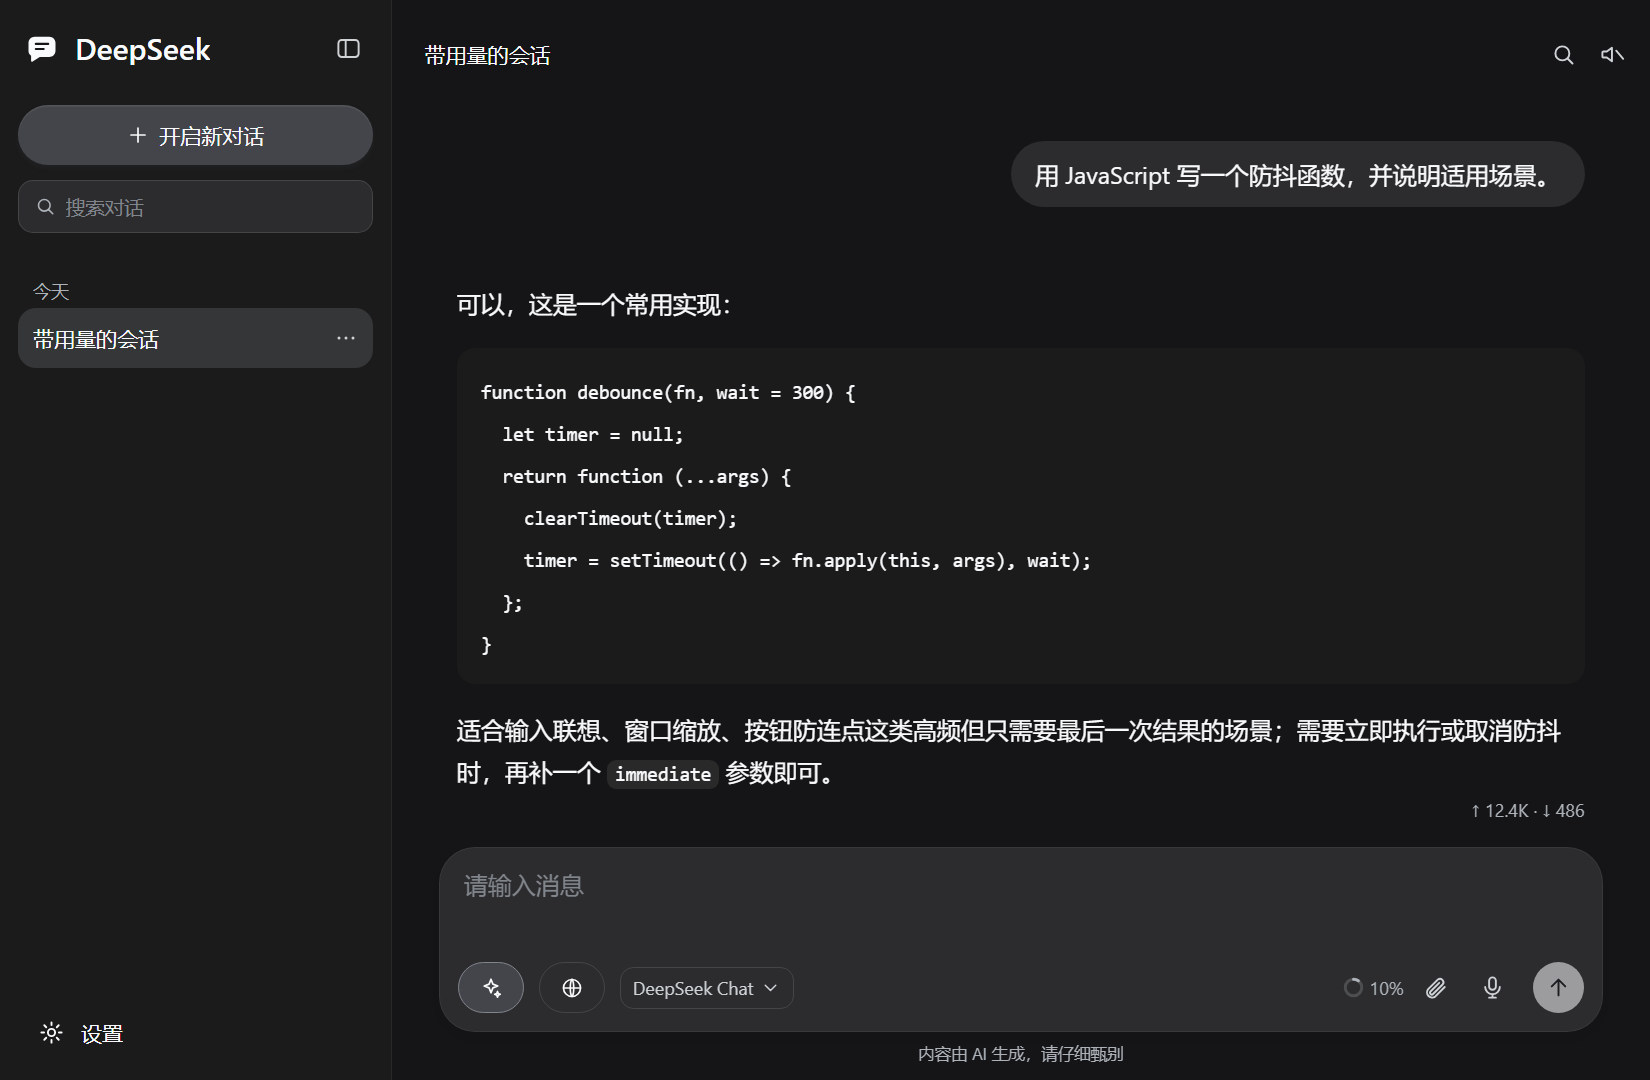
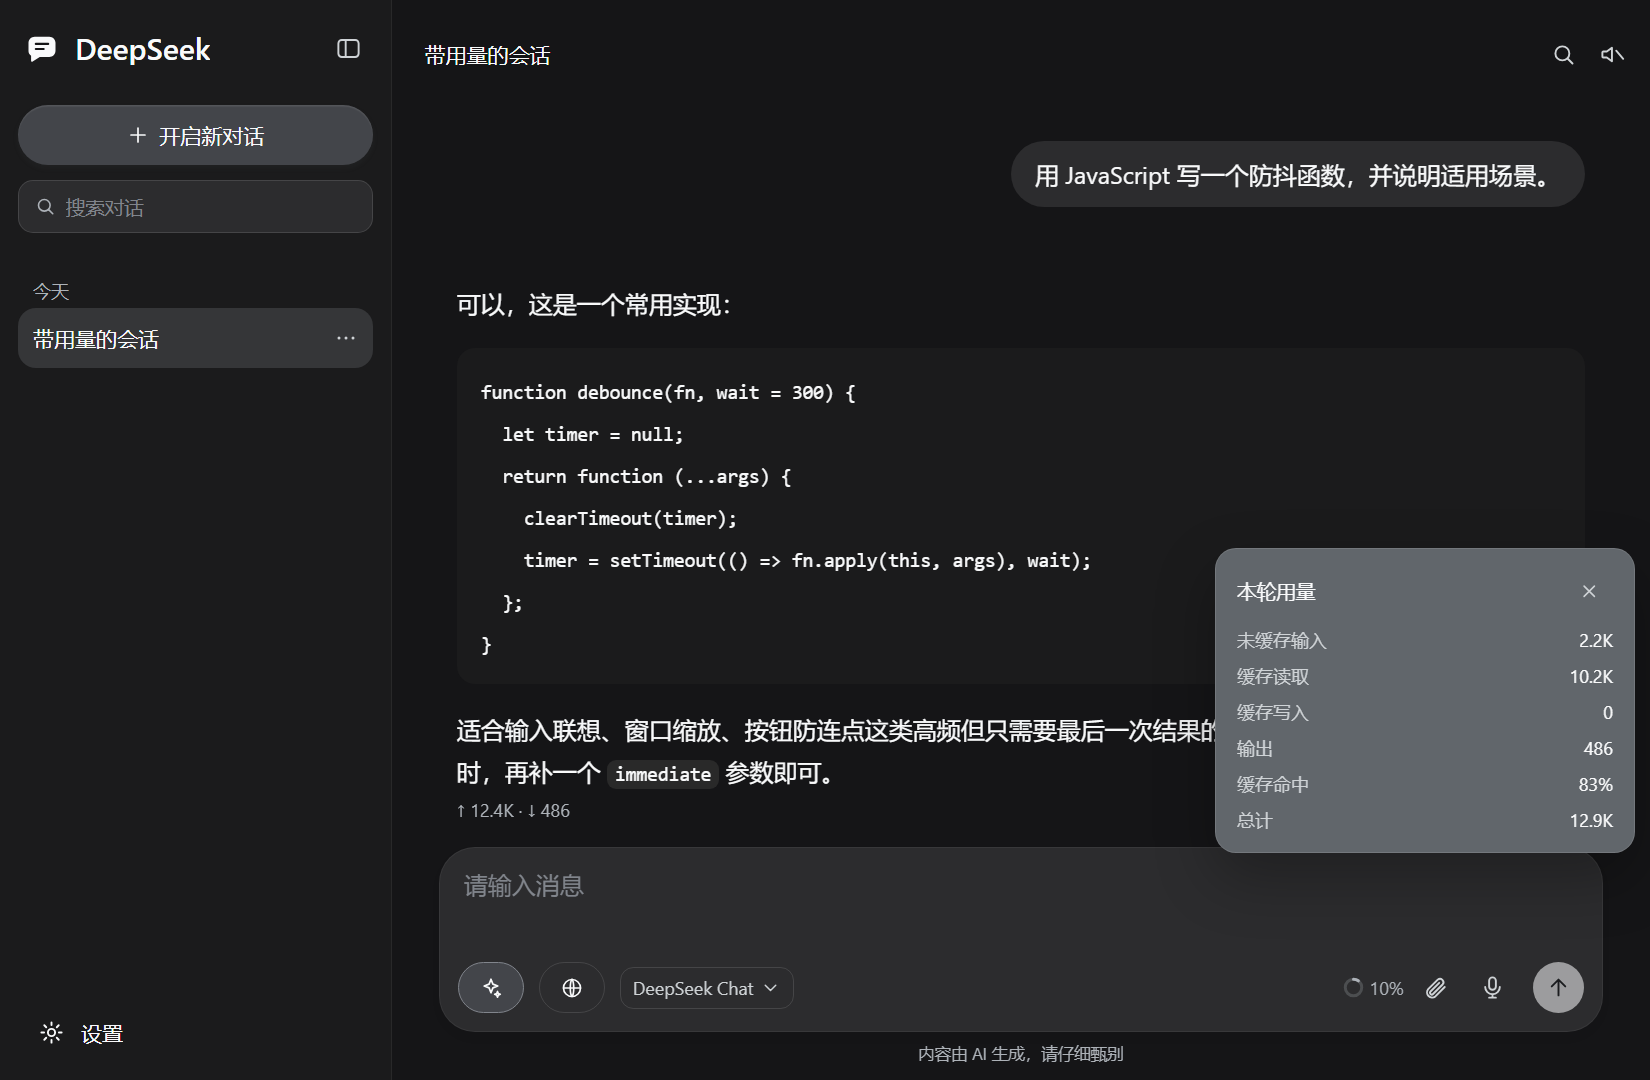
feat: open usage detail panels from the turn footer and the ring (v1.16.0)
- clicking the "↑ billed input · ↓ output" line opens a "Turn usage" panel with
  the exact breakdown: uncached input, cached input, cache write, output (with
  reasoning), cache hit share and the total
- clicking the context ring opens a "Context usage" panel: percentage, bar,
  "~used / window", remaining tokens and the estimation note
- both panels close on Esc or the mask, collapse when the conversation changes,
  and only appear when their data exists; the ring and the usage line are now
  real buttons with aria-haspopup
- tests: 168 assertions; the harness gained emitWindow so the Escape path is
  covered

Changed region(s): [[0.7109, 0.4889, 1.0, 0.7944], [0.2782, 0.7333, 0.34, 0.7639]]

diff --git a/client.js b/client.js
@@ -13,7 +13,7 @@ window.__ModuleLoader__.load({
     const NS = 'deepseek-chat-ui';
     const API = '/chat-replica';
     /** 设置面板底部展示的版本；必须与 package.json 的 version 一致（元数据测试校验）。 */
-    const PLUGIN_VERSION = '1.15.0';
+    const PLUGIN_VERSION = '1.16.0';
     const REPO_URL = 'https://github.com/AlphaAntivoid/dsh-chat-replica';
     const STORE_THREADS = 'deepseek-chat-ui.threads.v1';
     const STORE_ACTIVE = 'deepseek-chat-ui.active.v1';
@@ -73,12 +73,23 @@ window.__ModuleLoader__.load({
     /** 一轮的上行/下行计数；缺 usage 时返回 null。 */
     function usageTotals(usage) {
       if (!usage || typeof usage !== 'object') return null;
-      const input = billedInputTokens(usage);
+      const uncached = Number(usage.inputTokens) || 0;
+      const cacheRead = Number(usage.cacheReadTokens) || 0;
+      const cacheWrite = Number(usage.cacheWriteTokens) || 0;
+      const input = uncached + cacheRead + cacheWrite;
       const output = Number(usage.outputTokens) || 0;
       if (input === 0 && output === 0) return null;
       const reasoning = Number(usage.reasoningTokens) || 0;
-      const cacheHit = input === 0 ? null : Math.round(((Number(usage.cacheReadTokens) || 0) / input) * 100);
-      return { input: input, output: output, reasoning: reasoning, cacheHit: cacheHit };
+      const cacheHit = input === 0 ? null : Math.round((cacheRead / input) * 100);
+      return {
+        input: input,
+        output: output,
+        reasoning: reasoning,
+        cacheHit: cacheHit,
+        uncached: uncached,
+        cacheRead: cacheRead,
+        cacheWrite: cacheWrite,
+      };
     }
 
     /** 聊天用的模型选择；null 表示跟随 DSH 的默认模型。 */
@@ -272,6 +283,15 @@ window.__ModuleLoader__.load({
       'usage.output': '输出',
       'usage.reasoning': '推理',
       'usage.cacheHit': '缓存命中',
+      'usage.panelTurn': '本轮用量',
+      'usage.panelContext': '上下文用量',
+      'usage.uncached': '未缓存输入',
+      'usage.cacheRead': '缓存读取',
+      'usage.cacheWrite': '缓存写入',
+      'usage.total': '总计',
+      'usage.remaining': '剩余约 {tokens} tokens',
+      'usage.approx': '按上一轮计费输入 + 本轮输出估算，不是 provider 的精确压力值',
+      'usage.close': '关闭',
       'rename.title': '重命名对话',
       'rename.field': '对话标题',
       'rename.save': '保存',
@@ -444,6 +464,15 @@ window.__ModuleLoader__.load({
       'usage.output': 'Output',
       'usage.reasoning': 'Reasoning',
       'usage.cacheHit': 'Cache hit',
+      'usage.panelTurn': 'Turn usage',
+      'usage.panelContext': 'Context usage',
+      'usage.uncached': 'Uncached input',
+      'usage.cacheRead': 'Cached input',
+      'usage.cacheWrite': 'Cache write',
+      'usage.total': 'Total',
+      'usage.remaining': '~{tokens} tokens left',
+      'usage.approx': 'Estimated from the last billed input plus this turn’s output, not a provider-exact pressure reading',
+      'usage.close': 'Close',
       'rename.title': 'Rename conversation',
       'rename.field': 'Conversation title',
       'rename.save': 'Save',
@@ -3127,10 +3156,11 @@ window.__ModuleLoader__.load({
             { className: 'cd-right' },
             props.contextOccupancy
               ? h(
-                  'span',
+                  'button',
                   {
+                    type: 'button',
                     className: 'cd-meter',
-                    role: 'img',
+                    'aria-haspopup': 'dialog',
                     'aria-label': t('usage.context')
                       .replace('{percent}', String(props.contextOccupancy.percent))
                       .replace('{used}', formatTokenCount(props.contextOccupancy.used))
@@ -3139,6 +3169,9 @@ window.__ModuleLoader__.load({
                       .replace('{percent}', String(props.contextOccupancy.percent))
                       .replace('{used}', formatTokenCount(props.contextOccupancy.used))
                       .replace('{window}', formatTokenCount(props.contextOccupancy.window)),
+                    onClick: function () {
+                      props.onOpenUsage('context');
+                    },
                   },
                   h(
                     'svg',
@@ -3315,6 +3348,8 @@ window.__ModuleLoader__.load({
       const [contextWindow, setContextWindow] = useState(function () {
         return loadContextWindow();
       });
+      /** 用量明细面板：'turn' | 'context' | null。 */
+      const [usagePanel, setUsagePanel] = useState(null);
 
       const bodyRef = useRef(null);
       const findInputRef = useRef(null);
@@ -3450,7 +3485,7 @@ window.__ModuleLoader__.load({
             const message = activeThread.messages[index];
             if (message.role === 'assistant' && message.usage) {
               const totals = usageTotals(message.usage);
-              if (totals !== null) return totals;
+              if (totals !== null) return { usage: message.usage, totals: totals };
             }
           }
           return null;
@@ -3461,7 +3496,7 @@ window.__ModuleLoader__.load({
       const occupancy = useMemo(
         function () {
           if (contextWindow === null || activeUsage === null) return null;
-          const used = activeUsage.input + activeUsage.output;
+          const used = activeUsage.totals.input + activeUsage.totals.output;
           return {
             used: used,
             window: contextWindow,
@@ -3513,6 +3548,28 @@ window.__ModuleLoader__.load({
           };
         },
         [modelMenu],
+      );
+
+      useEffect(
+        function () {
+          if (usagePanel === null) return;
+          const onKey = function (event) {
+            if (event.key === 'Escape') setUsagePanel(null);
+          };
+          window.addEventListener('keydown', onKey);
+          return function () {
+            window.removeEventListener('keydown', onKey);
+          };
+        },
+        [usagePanel],
+      );
+
+      // 切换会话时收起用量面板，避免展示上一条会话的数字。
+      useEffect(
+        function () {
+          setUsagePanel(null);
+        },
+        [activeId],
       );
 
       // 切换会话时收起查找条，避免旧查询挂在新对话上。
@@ -4954,6 +5011,94 @@ window.__ModuleLoader__.load({
         );
       };
 
+      /**
+       * 用量明细：本轮 token 拆分与上下文占用。只展示确切数字与一条近似说明，
+       * 不虚构 system / tools 分段。
+       */
+      const renderUsagePanel = function () {
+        if (usagePanel === null) return null;
+        const title = usagePanel === 'turn' ? t('usage.panelTurn') : t('usage.panelContext');
+        const close = function () {
+          setUsagePanel(null);
+        };
+        let body = null;
+        if (usagePanel === 'turn' && activeUsage !== null) {
+          const totals = activeUsage.totals;
+          const rows = [
+            [t('usage.uncached'), formatTokenCount(totals.uncached)],
+            [t('usage.cacheRead'), formatTokenCount(totals.cacheRead)],
+            [t('usage.cacheWrite'), formatTokenCount(totals.cacheWrite)],
+            [
+              t('usage.output'),
+              formatTokenCount(totals.output) +
+                (totals.reasoning > 0 ? '（' + t('usage.reasoning') + ' ' + formatTokenCount(totals.reasoning) + '）' : ''),
+            ],
+            [t('usage.cacheHit'), totals.cacheHit === null ? '—' : totals.cacheHit + '%'],
+            [t('usage.total'), formatTokenCount(totals.input + totals.output)],
+          ];
+          body = h(
+            'dl',
+            { className: 'cd-usage-rows' },
+            rows.map(function (row, index) {
+              return h(
+                'div',
+                { key: index, className: 'cd-usage-row' },
+                h('dt', null, row[0]),
+                h('dd', null, row[1]),
+              );
+            }),
+          );
+        } else if (usagePanel === 'context' && occupancy !== null) {
+          body = h(
+            'div',
+            null,
+            h('div', { className: 'cd-usage-percent' }, occupancy.percent + '%'),
+            h(
+              'div',
+              { className: 'cd-usage-bar' },
+              h('span', { style: { width: occupancy.percent + '%' } }),
+            ),
+            h(
+              'div',
+              { className: 'cd-usage-figures' },
+              '~' + formatTokenCount(occupancy.used) + ' / ' + formatTokenCount(occupancy.window),
+            ),
+            h(
+              'div',
+              { className: 'cd-usage-note' },
+              t('usage.remaining').replace('{tokens}', formatTokenCount(Math.max(0, occupancy.window - occupancy.used))),
+            ),
+            h('div', { className: 'cd-usage-note' }, t('usage.approx')),
+          );
+        }
+        return h(
+          'div',
+          { className: 'cd-usage-layer' },
+          h('div', { className: 'cd-usage-mask', onClick: close }),
+          h(
+            'div',
+            { className: 'cd-usage-panel', role: 'dialog', 'aria-modal': 'true', 'aria-label': title },
+            h(
+              'div',
+              { className: 'cd-usage-head' },
+              h('span', { className: 'cd-usage-title' }, title),
+              h(
+                'button',
+                {
+                  type: 'button',
+                  className: 'cd-iconbtn cd-iconbtn-sm',
+                  title: t('usage.close'),
+                  'aria-label': t('usage.close'),
+                  onClick: close,
+                },
+                h(Icon, { name: 'x', size: 15 }),
+              ),
+            ),
+            body,
+          ),
+        );
+      };
+
       const renderThread = function () {
         if (!activeThread) return null;
         const messages = activeThread.messages;
@@ -5044,9 +5189,11 @@ window.__ModuleLoader__.load({
               turnUsage === null
                 ? null
                 : h(
-                    'div',
+                    'button',
                     {
+                      type: 'button',
                       className: 'cd-turn-usage',
+                      'aria-haspopup': 'dialog',
                       title:
                         t('usage.input') + ' ' + formatTokenCount(turnUsage.input) +
                         (turnUsage.cacheHit === null ? '' : ' · ' + t('usage.cacheHit') + ' ' + turnUsage.cacheHit + '%') +
@@ -5054,6 +5201,9 @@ window.__ModuleLoader__.load({
                         (turnUsage.reasoning > 0
                           ? ' · ' + t('usage.reasoning') + ' ' + formatTokenCount(turnUsage.reasoning)
                           : ''),
+                      onClick: function () {
+                        setUsagePanel('turn');
+                      },
                     },
                     '↑ ' + formatTokenCount(turnUsage.input) + ' · ↓ ' + formatTokenCount(turnUsage.output),
                   ),
@@ -5238,6 +5388,7 @@ window.__ModuleLoader__.load({
           h(
             'div',
             { className: 'cd-input-area' },
+            usagePanel === null ? null : renderUsagePanel(),
             modelMenu ? renderModelMenu() : null,
             undoDelete !== null
               ? h(
@@ -5281,6 +5432,9 @@ window.__ModuleLoader__.load({
                   loadModels();
                 },
                 contextOccupancy: occupancy,
+                onOpenUsage: function (kind) {
+                  setUsagePanel(kind);
+                },
                 home: !hasMessages,
                 textareaRef: textareaRef,
                 attachments: attachments,
@@ -5668,9 +5822,25 @@ mark.cd-mark{padding:0 1px;border-radius:3px;background:color-mix(in srgb,var(--
 .cd-model-menu{position:absolute;left:10px;bottom:calc(100% - 4px);z-index:31;box-sizing:border-box;display:flex;flex-direction:column;width:250px;max-height:min(420px,72vh);overflow-y:auto;padding:5px;border:1px solid var(--dsw-alias-border-l2);border-radius:14px;background:var(--dsw-alias-bg-overlay,var(--dsw-alias-bg-layer-2));box-shadow:0 16px 40px rgba(0,0,0,.28);pointer-events:auto}
 .cd-model-group{padding:8px 10px 4px;color:var(--dsw-alias-label-tertiary);font-size:11px;line-height:16px;letter-spacing:.02em}
 .cd-model-name{flex:1;overflow:hidden;text-overflow:ellipsis;white-space:nowrap}
-.cd-meter{display:inline-flex;flex-shrink:0;align-items:center;gap:4px;color:var(--dsw-alias-label-tertiary);font-size:12px;line-height:16px;font-variant-numeric:tabular-nums}
+.cd-meter{display:inline-flex;flex-shrink:0;align-items:center;gap:4px;padding:0;border:0;background:transparent;color:var(--dsw-alias-label-tertiary);font:12px/16px var(--dsw-font-family);font-variant-numeric:tabular-nums;cursor:pointer}
+.cd-meter:hover{color:var(--dsw-alias-label-secondary)}
 .cd-meter svg{display:block;flex-shrink:0}
-.cd-turn-usage{display:flex;justify-content:flex-end;margin-top:4px;color:var(--dsw-alias-label-tertiary);font-size:12px;line-height:16px;font-variant-numeric:tabular-nums}
+.cd-turn-usage{display:flex;justify-content:flex-end;align-items:center;margin-top:4px;padding:0;border:0;background:transparent;color:var(--dsw-alias-label-tertiary);font:12px/16px var(--dsw-font-family);font-variant-numeric:tabular-nums;cursor:pointer}
+.cd-turn-usage:hover{color:var(--dsw-alias-label-secondary)}
+.cd-usage-layer{position:absolute;inset:0;z-index:32;pointer-events:none}
+.cd-usage-mask{position:fixed;inset:0;pointer-events:auto}
+.cd-usage-panel{position:absolute;right:10px;bottom:calc(100% - 4px);z-index:33;box-sizing:border-box;width:280px;padding:12px 14px;border:1px solid var(--dsw-alias-border-l2);border-radius:14px;background:var(--dsw-alias-bg-overlay,var(--dsw-alias-bg-layer-2));box-shadow:0 16px 40px rgba(0,0,0,.28);pointer-events:auto}
+.cd-usage-head{display:flex;align-items:center;justify-content:space-between;margin-bottom:8px}
+.cd-usage-title{color:var(--dsw-alias-label-primary);font-size:13px;font-weight:500;line-height:18px}
+.cd-usage-rows{display:flex;flex-direction:column;gap:6px;margin:0}
+.cd-usage-row{display:flex;justify-content:space-between;gap:12px;margin:0;color:var(--dsw-alias-label-secondary);font-size:12px;line-height:18px;font-variant-numeric:tabular-nums}
+.cd-usage-row dt{margin:0}
+.cd-usage-row dd{margin:0;color:var(--dsw-alias-label-primary)}
+.cd-usage-percent{color:var(--dsw-alias-label-primary);font-size:22px;font-weight:600;line-height:28px;font-variant-numeric:tabular-nums}
+.cd-usage-bar{height:6px;margin:8px 0;overflow:hidden;border-radius:3px;background:color-mix(in srgb,currentColor 18%,transparent);color:var(--dsw-alias-label-tertiary)}
+.cd-usage-bar span{display:block;height:100%;border-radius:3px;background:var(--dsw-alias-label-secondary)}
+.cd-usage-figures{color:var(--dsw-alias-label-secondary);font-size:12px;line-height:18px;font-variant-numeric:tabular-nums}
+.cd-usage-note{margin-top:6px;color:var(--dsw-alias-label-tertiary);font-size:11px;line-height:16px}
 .cd-usage{margin-right:2px;color:var(--dsw-alias-label-tertiary);font-size:12px;line-height:16px;font-variant-numeric:tabular-nums;white-space:nowrap}
 .cd-delete-actions{display:flex;gap:10px;margin-top:22px}
 .cd-confirm-pill{display:inline-flex;flex:1;align-items:center;justify-content:center;height:40px;padding:0 14px;border:none;border-radius:999px;font-family:inherit;font-size:14px;font-weight:500;line-height:20px;white-space:nowrap;cursor:pointer;transition:background-color .15s,opacity .15s}

diff --git a/README.en.md b/README.en.md
@@ -33,7 +33,7 @@ Find in a conversation: press Ctrl/Cmd+F, matches are highlighted, and the curre
 
 Usage mirrors DSH: every answer ends with this turn's `↑ billed input · ↓ output` (hover for cache hit and
 reasoning tokens), and the ring on the right of the composer shows context occupancy (hover for
-`~used / window`).
+`~used / window`). Click the usage line or the ring to open the breakdown.
 
 ![Usage and context](media/screenshots/usage-dark.png)
 
@@ -63,6 +63,7 @@ Light theme:
 - Model picker: the composer shows the current model; switch per provider or fall back to the default. The choice is stored locally and sent with each request; an unknown model falls back to the default
 - The settings footer can check for updates: it queries the latest GitHub release only when clicked and shows up-to-date / a new version (click again to open it) / a failed check
 - Usage matches DSH: every answer ends with this turn's `↑ billed input · ↓ output`, the composer ring shows context occupancy, and hovering reveals cache-hit and reasoning tokens
+- Clicking the usage line opens this turn's breakdown (uncached input / cached input / cache write / output with reasoning / cache hit / total); clicking the ring opens the context panel (percentage, bar, `~used / window`, remaining)
 - Message bubbles, welcome screen, composer, Markdown (headings / lists / inline code / code blocks) and a collapsible "Thought" block
 - Upload text files, voice input, send / stop on the right of the composer
 - "Deep thinking" maps to the model's reasoningEffort (on = max, off = off; levels come from the model declaration)

diff --git a/README.md b/README.md
@@ -31,7 +31,7 @@
 ![会话内查找](media/screenshots/find-dark.png)
 
 用法用量与 DSH 一致：每条回答下方显示本轮 `↑ 计费输入 · ↓ 输出`（悬停看缓存命中与推理 token），
-输入框右侧的圆环显示上下文占用百分比（悬停看 `约已用 / 窗口`）。
+输入框右侧的圆环显示上下文占用百分比（悬停看 `约已用 / 窗口`）。点用量行或圆环可展开明细。
 
 ![用量与上下文](media/screenshots/usage-dark.png)
 
@@ -61,6 +61,7 @@
 - 模型选择：输入框下方显示当前模型，按 provider 分组切换，可切回「跟随默认」；选择存本地并随请求发送，Host 校验失败会回退默认
 - 设置页脚可「检查更新」：点一下才联网查询 GitHub 最新 Release，显示已是最新 / 新版本（再点打开 Release 页）/ 检查失败
 - 用量展示与 DSH 对齐：每条回答下方是本轮 `↑ 计费输入 · ↓ 输出`，输入框右侧圆环是上下文占用；悬停可看缓存命中与推理 token
+- 点用量行可展开本轮明细（未缓存输入 / 缓存读取 / 缓存写入 / 输出（含推理）/ 缓存命中 / 总计），点圆环可展开上下文面板（百分比、进度条、`~已用 / 窗口`、剩余量）
 - 消息气泡、欢迎语、输入框，Markdown（标题 / 列表 / 行内代码 / 代码块）与「已思考」折叠块
 - 输入框右侧：📎 上传文本文件、🎤 语音输入、发送 / 停止
 - 「深度思考」映射到模型的 reasoningEffort（开 = max，关 = off，档位取自模型声明）

diff --git a/CHANGELOG.md b/CHANGELOG.md
@@ -3,6 +3,22 @@
 每个版本同时保留中文与 English 两小节；`scripts/release-notes.mjs` 会取出版本对应小节作为 GitHub Release 的正文。
 Every version keeps a Chinese and an English section together; `scripts/release-notes.mjs` turns that section into the GitHub Release body.
 
+## 1.16.0
+
+### 中文
+
+- 用量明细：点回答下方的用量行展开「本轮用量」面板（未缓存输入 / 缓存读取 / 缓存写入 / 输出（含推理）/ 缓存命中 / 总计）
+- 点输入框右侧的上下文圆环展开「上下文用量」面板：百分比、进度条、`~已用 / 窗口`、剩余量与估算说明
+- 两个面板支持 Esc 与遮罩关闭，切换会话自动收起；没有数据时不显示入口
+- 测试：168 条断言（面板打开、拆分数字、缓存命中、Esc 关闭、上下文面板百分比）
+
+### English
+
+- Usage details: clicking the line under an answer opens "Turn usage" (uncached input / cached input / cache write / output with reasoning / cache hit / total)
+- Clicking the context ring opens "Context usage": percentage, bar, `~used / window`, remaining tokens and the estimation note
+- Both panels close on Esc or the mask, collapse when switching conversations, and only render when data exists
+- Tests: 168 assertions (panel opens, breakdown figures, cache hit, Esc, context percentage)
+
 ## 1.15.0
 
 ### 中文
